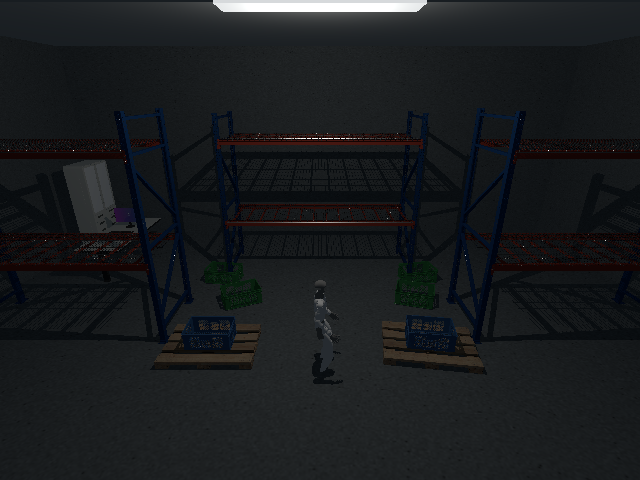
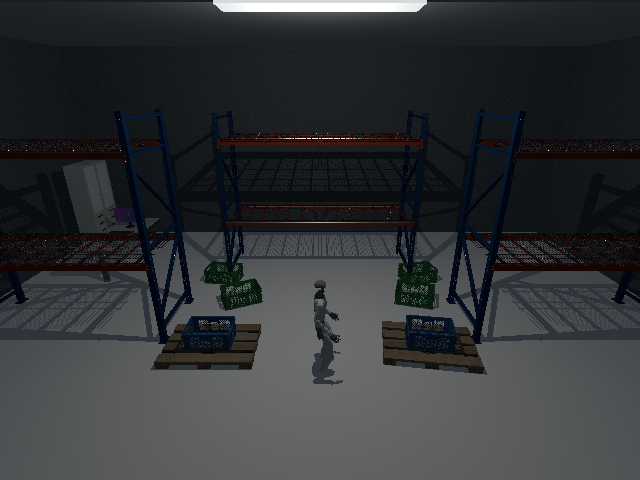
Restore the shared plain floor in warehouse A

diff --git a/README.md b/README.md
@@ -61,7 +61,8 @@ and lights are fixed; robot roots move sideways with fixed joints. All
 replicas use the same motion phase. HyperLux uses AA1 and batch 128; Warp
 uses native RGB. The Warp timings below predate the blue-sky update and
 used a black background. The warehouse and outdoor HyperLux/RTX measurements
-also predate a box-texture fix. Those results are being refreshed.
+also predate a box-texture fix. Warehouse A now uses a plain floor in all three
+renderers. The affected results are being refreshed.
 
 Throughput is aggregate images per second. Speedup is HyperLux / Warp.
 
@@ -106,8 +107,9 @@ AA1 with hard shadows; RTX uses DLAA, four direct samples, eight ray bounces
 and fixed exposure (f/5, 1/50 s, ISO 100). Light intensities are converted for
 each backend. Sunlit RTX scenes also use a sky dome.
 
-The ground and walls use the same source textures across backends, including
-box-shaped surfaces. The same lighting calibration is shared across scenes. HyperLux's diffuse-fill
+The ground and walls use the same source materials across backends, including
+textures on box-shaped surfaces. The same lighting calibration is shared across
+scenes. HyperLux's diffuse-fill
 estimate does not reproduce RTX global illumination. Windowed rooms can look
 brighter and flatter, and some warehouse areas darker. HyperLux and Warp use
 a matching solid blue background in sunlit scenes; this adds no illumination.
@@ -139,6 +141,8 @@ can introduce small color differences from the PNGs.
 | Moving robot | ![Laboratory: HyperLux, moving robot](docs/media/laboratory/hyperlux-moving-robot.gif) | ![Laboratory: MuJoCo Warp, moving robot](docs/media/laboratory/mujoco_warp-moving-robot.gif) | ![Laboratory: Isaac RTX, moving robot](docs/media/laboratory/rtx-moving-robot.gif) |
 
 ### Warehouse A
+
+All three renderers use the same plain floor and the original fixed lamp.
 
 | View | HyperLux | MuJoCo Warp | Isaac RTX |
 | --- | --- | --- | --- |
